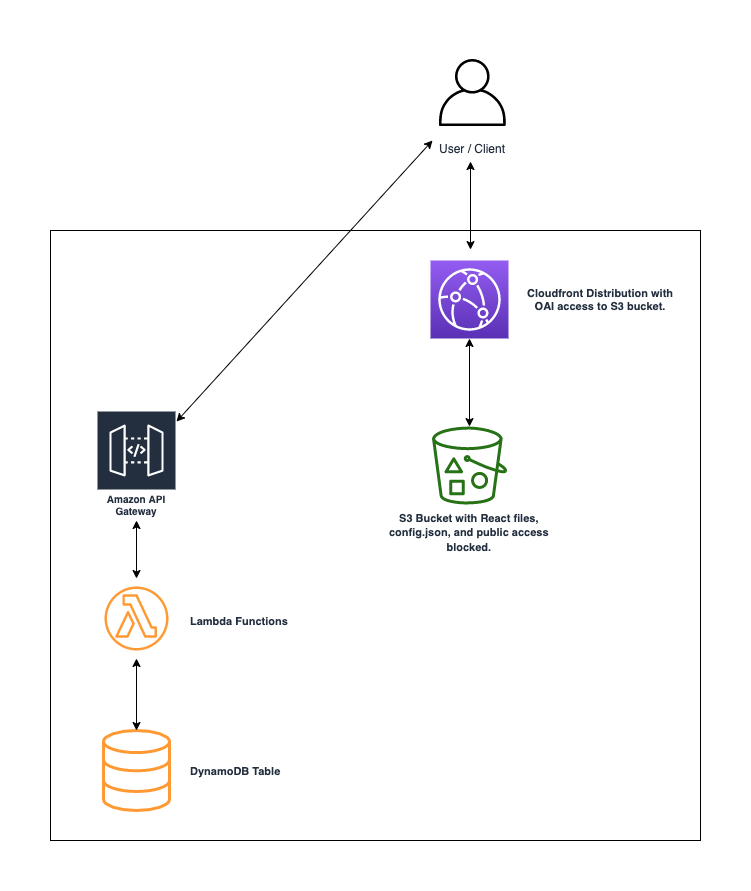
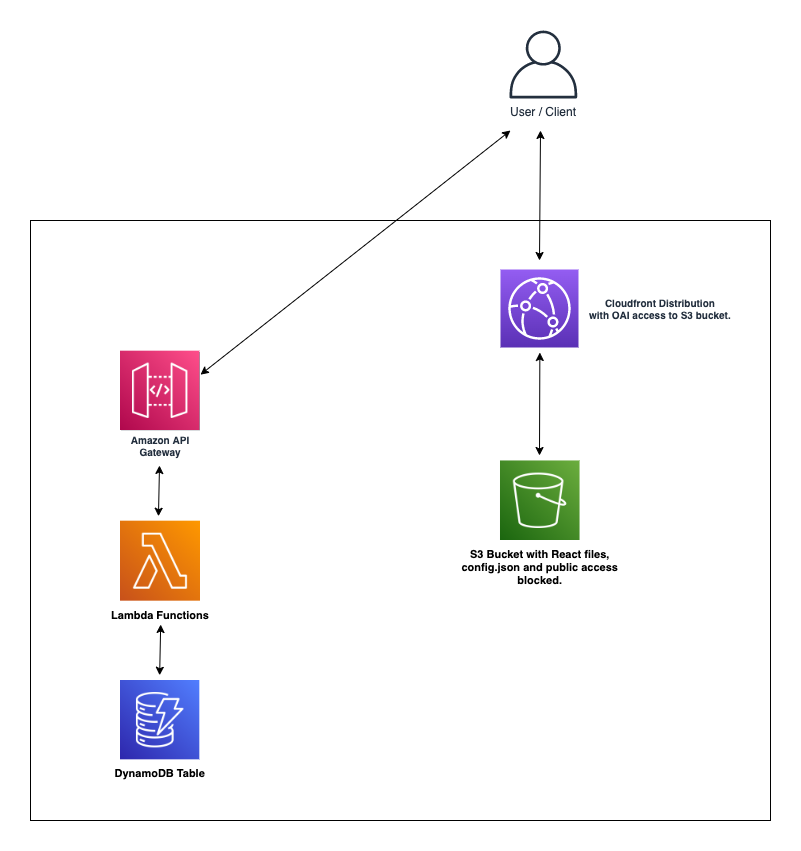
Diagram and README copy updates (#15)
* React app example in Typescript

* Update README, fix spacing issue in file

* Add diagram

* Add cleanup section

* Formatting cleanup

* Update diagram and README

diff --git a/typescript/react-app/README.md b/typescript/react-app/README.md
@@ -1,5 +1,5 @@
 # React App with basic backend
-Creates a simple React note taking app and deploys it to an S3 bucket backed by a Cloudfront distribution. Also deploys a DynamoDB table and an API Gateway with basic read/write endpoints.
+Creates a simple React note taking app and deploys it to an Amazon S3 bucket backed by a Amazon CloudFront distribution. Also deploys an Amazon DynamoDB table and an Amazon API Gateway with basic read/write endpoints.
 
 This example used [this helpful guide](https://www.freecodecamp.org/news/aws-cdk-v2-three-tier-serverless-application/) heavily in it's creation.
 
@@ -16,12 +16,12 @@ The `cdk.json` file tells the CDK Toolkit how to execute your app.
 
 The files in the `/lib/web` are compiled into a bundle by [Vite](https://vitejs.dev/) which is a lightweight module bundling alternative to Webpack.
 
-The built files are then uploaded to an S3 bucket and a Cloudfront distribution is created that has an Origin Access Identity to the S3 bucket.
-- Note: The S3 bucket is **not** configured to be a static website, because it is served through Cloudfront instead.
+The built files are then uploaded to an Amazon S3 bucket and a Amazon CloudFront distribution is created that has an Origin Access Identity to the Amazon S3 bucket.
+- Note: The Amazon S3 bucket is **not** configured to be a static website, because it is served through Amazon CloudFront instead.
 
-A DynamoDB table is created and a basic schema is defined for notes, along with an API Gateway and two Lambda functions are configured to trigger from the API Gateway and access the DynamoDB table.
+A DynamoDB table is created and a basic schema is defined for notes, along with an Amazon API Gateway and two Lambda functions are configured to trigger from the API Gateway and access the DynamoDB table.
 
-Finally, a `config.json` file is created with the URL of the API gateway and uploaded to the same S3 bucket as the built React files. The React app looks for this config file so it knows what URL to send API requests to. This is not an ideal way of doing things in production/real projects, but it is sufficient to keep this example project self contained and working without any additional steps.
+Finally, a `config.json` file is created with the URL of the Amazon API gateway and uploaded to the same Amazon S3 bucket as the built React files. The React app looks for this config file so it knows where to send API requests. This is not ideal for production/real projects, but it is sufficient to keep this example project self contained and working without any additional steps.
 
 ## Develop
  * `npm install` to install all the dependencies.
